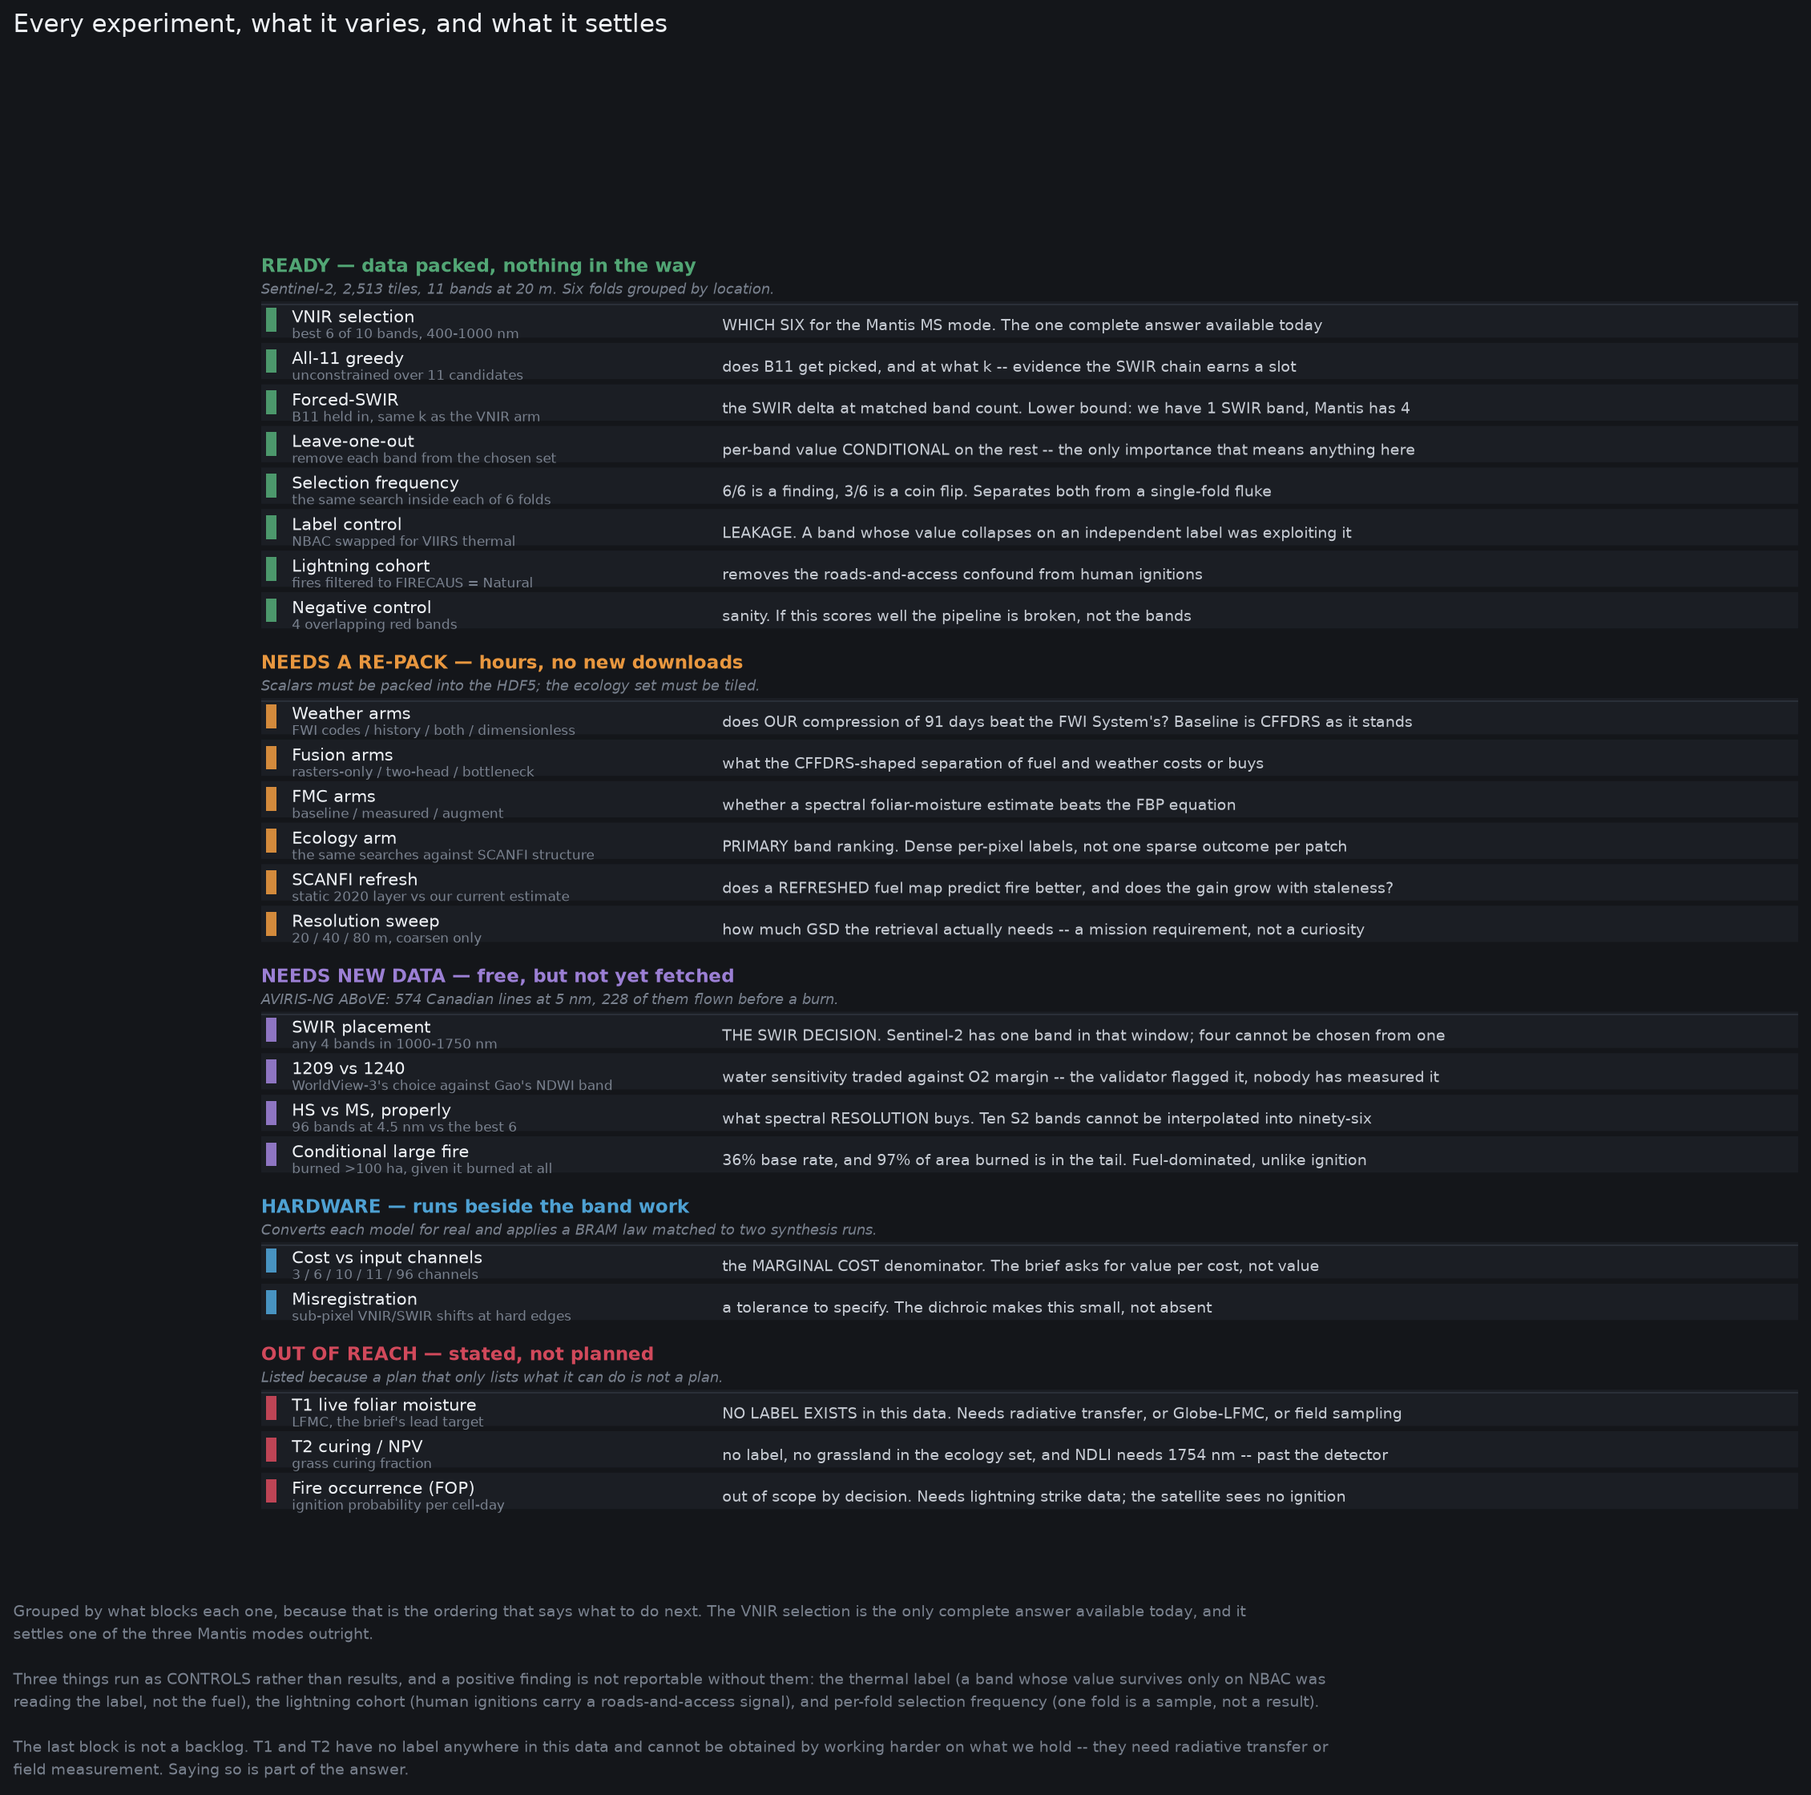
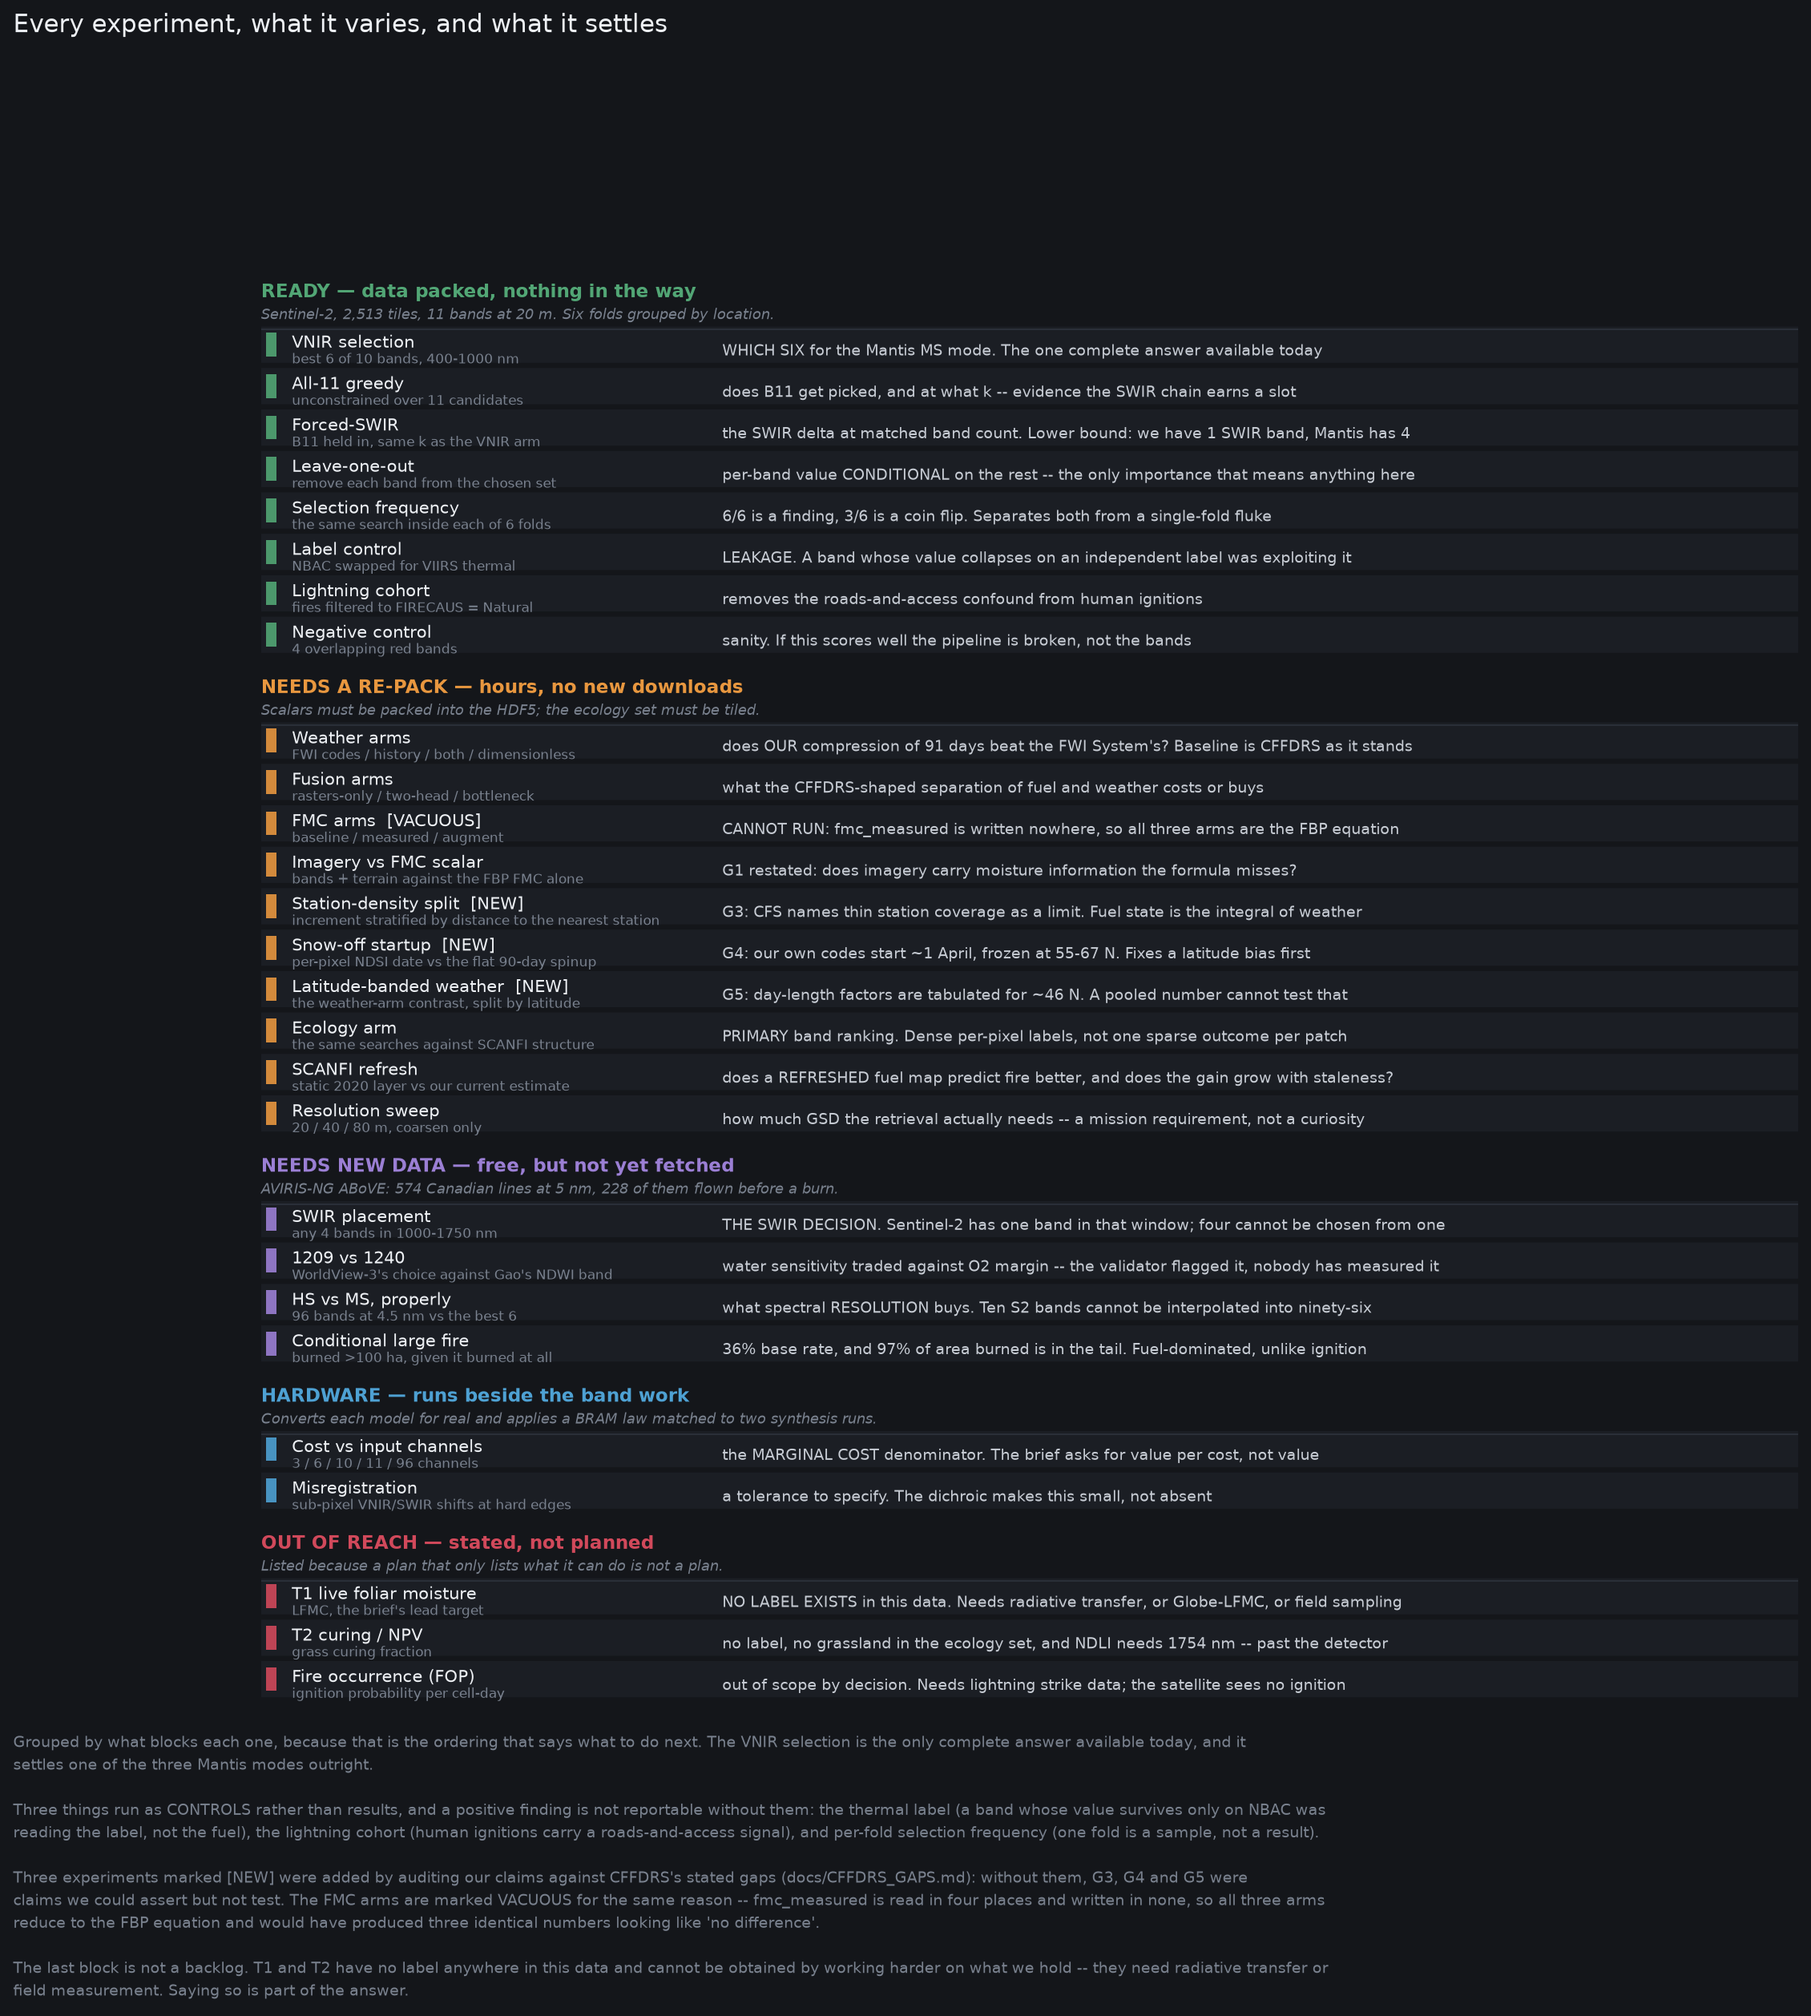
Audit our CFFDRS claims against whether we can actually test them
James asked for the gaps we address to be written down, and for the
experiments to be checked against the claims. Six gaps, and the check found
three of them unfalsifiable as planned plus one claim that cannot be made at
all.

G1, foliar moisture, is the serious one. FBP computes FMC from latitude,
longitude, elevation and date -- "a function of where and when, never of what
the vegetation is doing" -- and crown-fire initiation turns on it. So it
looks like the cleanest gap an imager could fill. But fmc_measured is read in
four places and written in NONE; no sidecar on disk carries it. MEASURED
falls through resolve_fmc to the equation and AUGMENT reports fmc_cffdrs and
fmc_measured as the same number. Running the three arms today would produce
three identical results that look like "no difference" -- the same
plausible-number-from-a-path-that-never-ran failure this codebase keeps
producing. I saw the identical values when I tested the arms and did not flag
it.

The reason is circular: a validated spectral FMC needs an LFMC label, and no
LFMC label exists in this data. So the claim is withdrawn and restated as
something testable -- does imagery carry moisture information the formula
misses -- which is the fusion contrast, not the FMC arm. It cannot say our
estimate beats theirs.

G3, station density, is stated by CFS rather than inferred: "the relatively
low fire weather station density in much of Canada is a limitation on model
[…]

diff --git a/scripts/make_experiment_plan.py b/scripts/make_experiment_plan.py
@@ -64,9 +64,21 @@ PLAN = [
       ("Fusion arms",
        "rasters-only / two-head / bottleneck",
        "what the CFFDRS-shaped separation of fuel and weather costs or buys"),
-      ("FMC arms",
+      ("FMC arms  [VACUOUS]",
        "baseline / measured / augment",
-       "whether a spectral foliar-moisture estimate beats the FBP equation"),
+       "CANNOT RUN: fmc_measured is written nowhere, so all three arms are the FBP equation"),
+      ("Imagery vs FMC scalar",
+       "bands + terrain against the FBP FMC alone",
+       "G1 restated: does imagery carry moisture information the formula misses?"),
+      ("Station-density split  [NEW]",
+       "increment stratified by distance to the nearest station",
+       "G3: CFS names thin station coverage as a limit. Fuel state is the integral of weather"),
+      ("Snow-off startup  [NEW]",
+       "per-pixel NDSI date vs the flat 90-day spinup",
+       "G4: our own codes start ~1 April, frozen at 55-67 N. Fixes a latitude bias first"),
+      ("Latitude-banded weather  [NEW]",
+       "the weather-arm contrast, split by latitude",
+       "G5: day-length factors are tabulated for ~46 N. A pooled number cannot test that"),
       ("Ecology arm",
        "the same searches against SCANFI structure",
        "PRIMARY band ranking. Dense per-pixel labels, not one sparse outcome per patch"),
@@ -180,6 +192,15 @@ def main() -> int:
         "reading the label, not the fuel), the lightning cohort (human "
         "ignitions carry a roads-and-access signal), and per-fold selection "
         "frequency (one fold is a sample, not a result).",
+        "",
+        "Three experiments marked [NEW] were added by auditing our claims "
+        "against CFFDRS's stated gaps (docs/CFFDRS_GAPS.md): without them, G3, "
+        "G4 and G5 were",
+        "claims we could assert but not test. The FMC arms are marked VACUOUS "
+        "for the same reason -- fmc_measured is read in four places and "
+        "written in none, so all three arms",
+        "reduce to the FBP equation and would have produced three identical "
+        "numbers looking like 'no difference'.",
         "",
         "The last block is not a backlog. T1 and T2 have no label anywhere in "
         "this data and cannot be obtained by working harder on what we hold -- "

diff --git a/docs/CFFDRS_GAPS.md b/docs/CFFDRS_GAPS.md
@@ -1,0 +1,191 @@
+# CFFDRS gaps this study addresses, and whether we can actually test the claim
+
+Each gap below is a weakness in the operational system that a fuel-condition
+imager could plausibly fill. For each one: the claim we would make, the
+experiment that tests it, and — the part that matters — an honest verdict on
+whether that experiment can currently produce evidence.
+
+Three of the six could not. Those are marked and the fix is named.
+
+Sources: *The 2025 Update to the FWI System* (GLC-X-42) §7, the Stage 1 brief,
+and the CFFDRS landing page. Where a limitation is stated by CFS rather than
+inferred by us, it is quoted.
+
+---
+
+## G1 — Foliar moisture content is computed, never observed
+
+**The gap.** FBP's FMC comes from latitude, longitude, elevation and date
+(FCFDG eqs. 5–8). `fbp.foliar_moisture_content` carries the comment that says
+it plainly: *"a function of where and when, never of what the vegetation is
+doing."* Crown-fire initiation in FBP turns on FMC, so a quantity the system
+never measures sits directly under one of its headline predictions.
+
+**Claim we would like to make.** A spectral FMC estimate beats the equation.
+
+**Verdict: NOT TESTABLE AS STATED.** `fmc_measured` is read in four places
+and written in none; no sidecar on disk contains it. `FMCArm.MEASURED` falls
+through `resolve_fmc` to the equation, and `AUGMENT` therefore reports
+`fmc_cffdrs` and `fmc_measured` as the same number. Running the three arms
+today would yield three identical results that *look* like "no difference" —
+another plausible number from a path that never ran.
+
+The reason is circular and worth stating: producing a validated spectral FMC
+needs an LFMC label, and no LFMC label exists in this data (see the T1 row of
+the experiment plan).
+
+**Restated claim that IS testable.** *Imagery carries foliar-moisture
+information the FBP equation does not.* That is a comparison between a model
+given the bands and one given only the FBP FMC scalar — the fusion/rasters
+contrast, not the FMC arm. It cannot say our estimate is better than theirs;
+it can say the bands contain something the formula misses.
+
+**To make the original claim testable:** Globe-LFMC 2.0 (Yebra et al. 2024)
+paired with Sentinel-2 acquisitions, or PROSAIL simulation, or James's own
+field sampling. All are outside the current data.
+
+---
+
+## G2 — The fuel-type layer is a fixed vintage
+
+**The gap.** FBP consumes a published fuel-type grid — 2024 in our download,
+with SCANFI pinned to its 2020 time step (A-16). Fuel type and percent
+conifer change with harvest, insect damage, fire and regrowth, and the layer
+does not.
+
+**Claim.** A refreshed fuel estimate predicts fire better than the static
+layer, and the advantage grows with how stale the layer is.
+
+**Verdict: TESTABLE.** SCANFI is attached to all 292 fire patches, staleness
+spans −4 to +3 years, and the contamination rule excludes the 17 patches
+whose associated fire predates the SCANFI vintage. The estimator is the
+*slope* against staleness rather than the level, because at gap 0 our
+estimate is a noisy copy of its own training target and would lose on noise
+alone.
+
+**Blocked on:** training the Stage-1 ecology model, which needs the ecology
+set tiled and packed. Re-pack tier.
+
+---
+
+## G3 — Weather station density is thin over most of Canada
+
+**The gap.** Stated by CFS, not inferred: *"The relatively low fire weather
+station density in much of Canada is a limitation on model accuracy"*
+(GLC-X-42 §7.2). Most of the country's fire weather is interpolated from
+sparse points.
+
+**Claim.** Satellite fuel state is worth most exactly where the weather grid
+is weakest, because fuel moisture is the integral of weather. That is the
+north, which is also where most of the area burns.
+
+**Verdict: NOT TESTABLE — no station data held.** We have ERA5-Land, a
+reanalysis grid, which says nothing about where the observing stations are.
+Stratifying the increment on distance-to-nearest-station requires the station
+network itself.
+
+**Fix, and it is small:** fetch the CWFIS fire-weather station locations and
+record a distance-to-nearest-station scalar per patch. Then the existing arms
+can be read stratified by it. **Added to the plan as E-1.**
+
+---
+
+## G4 — FWI startup is keyed to snow-off, by regional rule
+
+**The gap.** CFFDRS starts the moisture codes at snow disappearance and
+overwinters DC. Operationally that is applied by region.
+
+**Claim.** A per-pixel snow-off date from the imager gives better drought
+codes than a regional or fixed rule.
+
+**Verdict: TESTABLE, but we are the worse offender first.** Our own
+`fwi.py` has no snow logic at all — a flat 90-day spinup with fixed start
+values (FFMC 85, DMC 6, DC 15). For a fire patch the spinup therefore begins
+around 1 April, which at 55–67° N is frequently still frozen and snow-covered,
+so the recursion accumulates weeks of spurious drying and the error scales
+with latitude. DC also never overwinters, erasing the previous autumn's
+drought — and 2023, which contributes 2,244 of our perimeters, followed dry
+years in the west.
+
+So this is a defect to fix before it is a contribution to offer. **Added to
+the plan as E-2.**
+
+NDSI (green + SWIR1) is computable as a server-side reduction over the
+Sentinel-2 collection — first date below threshold, per pixel — without
+downloading more imagery.
+
+---
+
+## G5 — Day-length factors are tabulated for ~46° N
+
+**The gap.** DMC and DC day-length corrections are tabulated for roughly
+46° N while Canada spans 42–83°, giving high-latitude drought codes a
+systematic seasonal bias (already recorded in OPEN_QUESTIONS).
+
+**Claim.** Raw weather history lets a model learn latitude-appropriate
+weighting that the tabulated codes cannot.
+
+**Verdict: PARTLY TESTABLE — needs a stratified readout.** The weather arms
+(CODES / HISTORY / BOTH / HISTORY_DIMENSIONLESS) compare the two
+compressions, but a pooled result cannot distinguish "history is better" from
+"history is better *at high latitude*", which is the actual claim. The
+comparison has to be read stratified by latitude band.
+
+**Fix:** report the weather-arm contrast by latitude band in `pool_bands`.
+**Added to the plan as E-3.**
+
+---
+
+## G6 — FOP runs on 20 km cells and cannot see within them
+
+**The gap.** Fire occurrence prediction is cell-based at 20 × 20 km
+(GLC-X-42 §7.2). A cell that is 10% tinder-dry grass and 90% wet bog has the
+same mean fuel state as one uniformly moderate, and a very different fire
+probability.
+
+**Claim.** A 20 m imager supplies the within-cell *distribution* — receptive
+fraction, variance, connectivity — which a coarse model structurally cannot
+have. 10⁶ pixels per voxel.
+
+**Verdict: OUT OF SCOPE.** FOP is parked by decision. Recorded because the
+argument is strong and the product definition it implies (a distribution
+summary, not a mean) is worth having if FOP is ever revisited.
+
+---
+
+## Gaps we identify and cannot close
+
+**Grassland curing.** FWI2025 accepts curing as an optional input and names
+remote sensing as an accepted source; its current option is NDVI-based
+greenness. The brief warns greenness tracks moisture deceptively in grass and
+shrub because the two co-vary seasonally. So the gap is real — and we cannot
+fill it. NDLI needs 1754 nm, past the standard-InGaAs cutoff (A-19); there is
+no curing label anywhere in our data; and the ecology set is eight treed and
+wetland classes with no grassland at all.
+
+**Duff moisture.** DMC governs lightning holdover, and the brief rules duff
+out explicitly: weather-driven and hidden under canopy. Canopy closure, which
+we do retrieve, modulates how shielded the duff is — a modifier at best, and
+currently speculation.
+
+**The moisture codes generally.** FFMC, DMC and DC are weather-driven and
+partly subsurface. No optical sensor reaches them. This bounds the whole
+claim and belongs in the results note: the imager contributes **fuel state**,
+not fuel moisture codes.
+
+---
+
+## Experiments added or changed by this audit
+
+| | What | Why |
+|---|---|---|
+| **E-1** | distance-to-nearest-weather-station per patch, and a stratified readout | G3 was unfalsifiable without it — we hold no station locations |
+| **E-2** | per-pixel snow-off from NDSI, as the FWI start date, against the flat 90-day spinup | G4, and it fixes a latitude-dependent bias in our own codes first |
+| **E-3** | weather-arm contrast reported by latitude band | G5's claim is about high latitude specifically; a pooled number cannot test it |
+
+And one claim withdrawn rather than tested: **G1 as originally stated**. The
+FMC arms cannot compare a spectral estimate against the equation, because no
+spectral estimate exists and none can be produced without an LFMC label. The
+restated version — imagery carries moisture information the formula misses —
+is testable through the fusion contrast and is what the results note should
+say.
